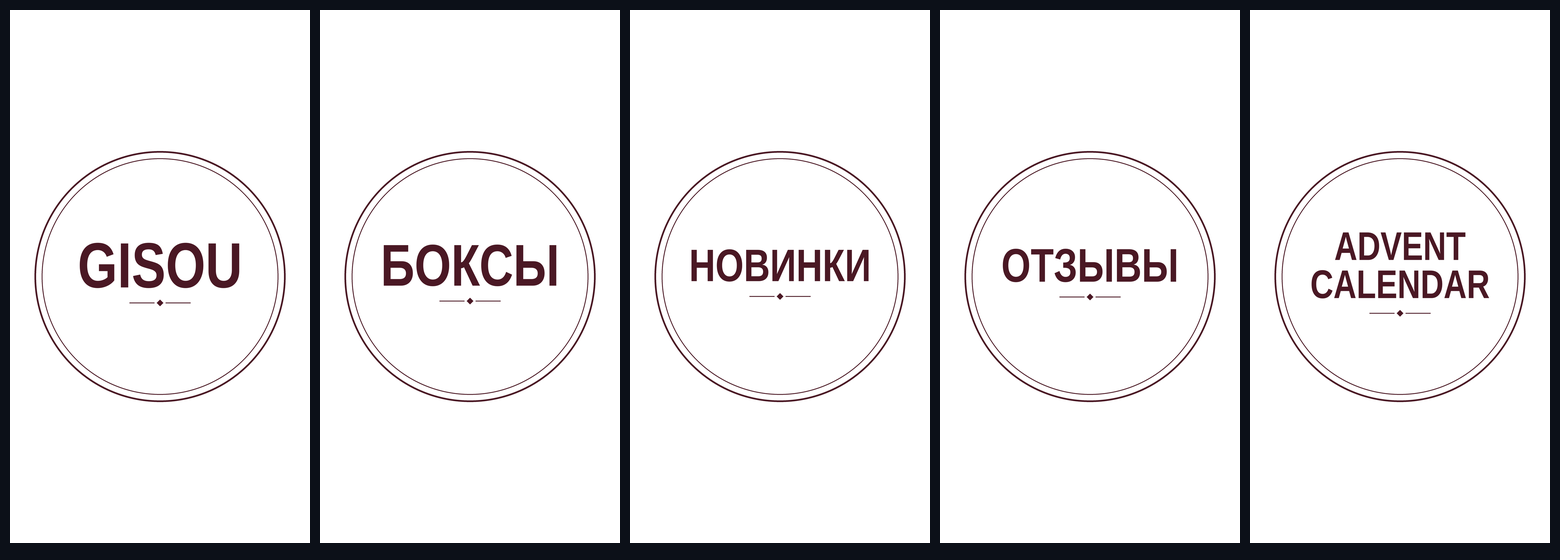
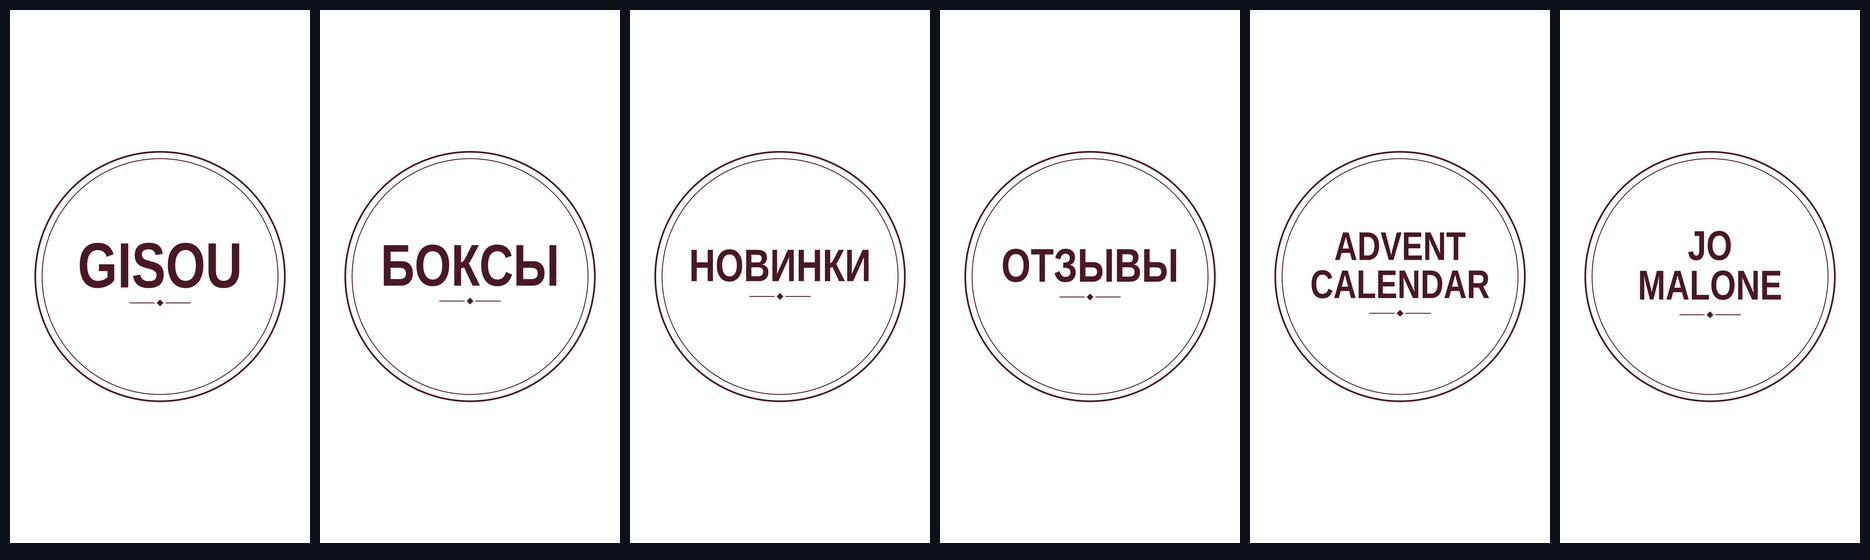
Add Jo Malone highlight cover
Claude-Session: https://claude.ai/code/session_01St4xobnr2P77ypHjic36e8

Changed region(s): [[0.0, 0.0304, 0.9846, 0.9714]]

diff --git a/design/make_highlights_white.py b/design/make_highlights_white.py
@@ -13,7 +13,8 @@ WINE, WHITE = (74, 24, 36), (255, 255, 255)
 CX, CY = W // 2, H // 2
 SQUEEZE = 0.80                       # horizontal scale that makes Liberation Sans Bold look condensed
 COVERS = [("gisou", ["GISOU"]), ("boxes", ["БОКСЫ"]), ("new", ["НОВИНКИ"]),
-          ("reviews", ["ОТЗЫВЫ"]), ("advent-calendar", ["ADVENT", "CALENDAR"])]
+          ("reviews", ["ОТЗЫВЫ"]), ("advent-calendar", ["ADVENT", "CALENDAR"]),
+          ("jo-malone", ["JO", "MALONE"])]
 
 def condensed_line(text, size):
     f = ImageFont.truetype(BOLD, size * S)
@@ -53,7 +54,7 @@ if __name__ == "__main__":
     out = sys.argv[1] if len(sys.argv) > 1 else "design/highlights-white"
     os.makedirs(out, exist_ok=True)
     imgs = [cover(lines, f"{out}/{i:02d}-{name.lower()}") for i, (name, lines) in enumerate(COVERS, 1)]
-    sheet = Image.new("RGB", (5 * 300 + 60, 540 + 20), (12, 16, 24))
+    sheet = Image.new("RGB", (len(imgs) * 310 + 10, 560), (12, 16, 24))
     for i, im in enumerate(imgs):
         sheet.paste(im.resize((300, 533), Image.LANCZOS), (10 + i * 310, 10))
     sheet.save(f"{out}/sheet.png")
